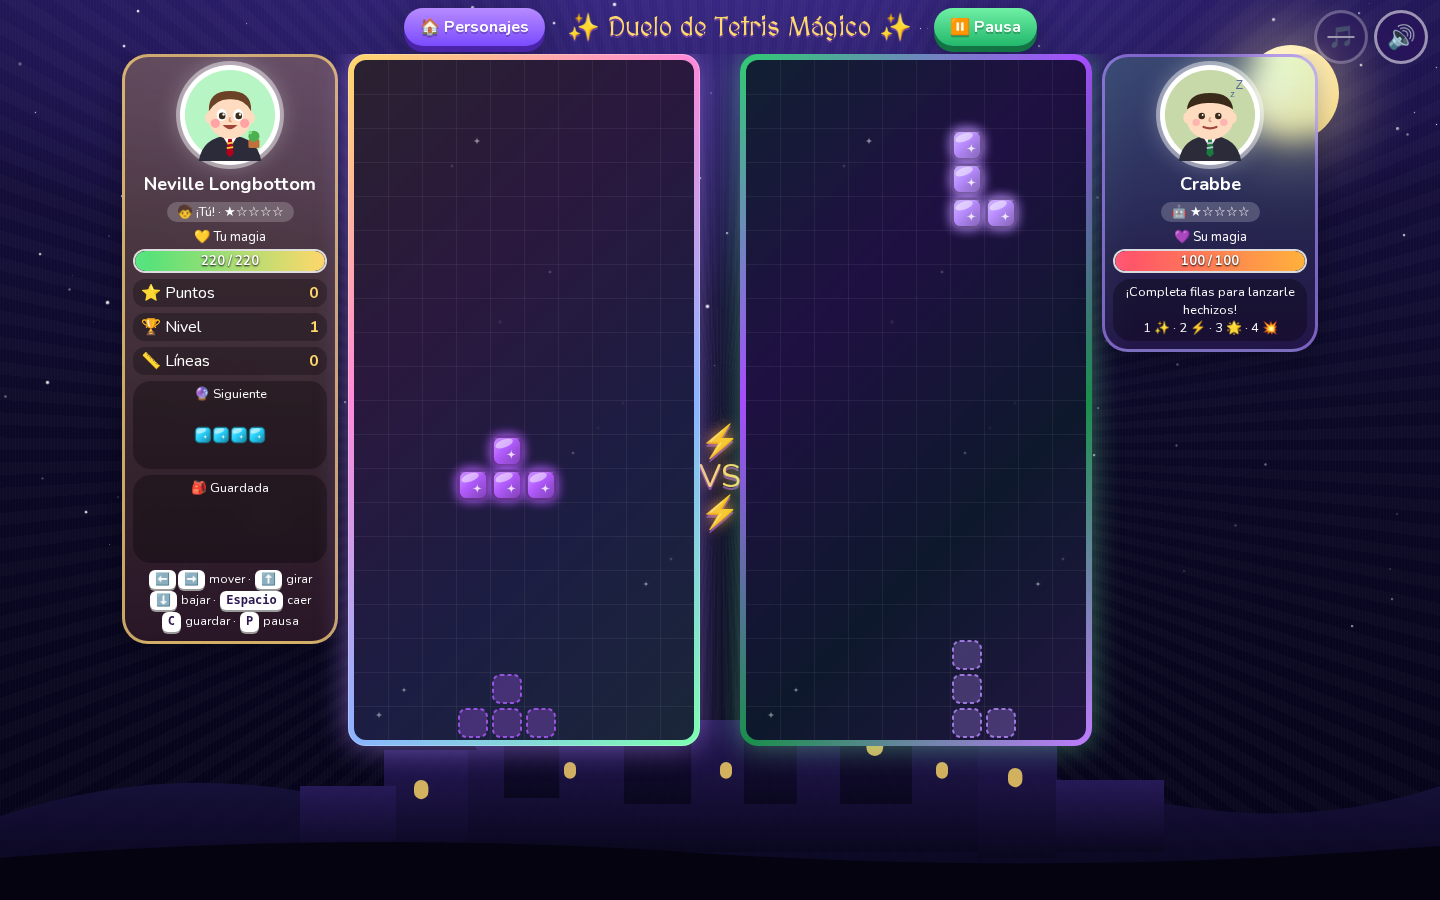
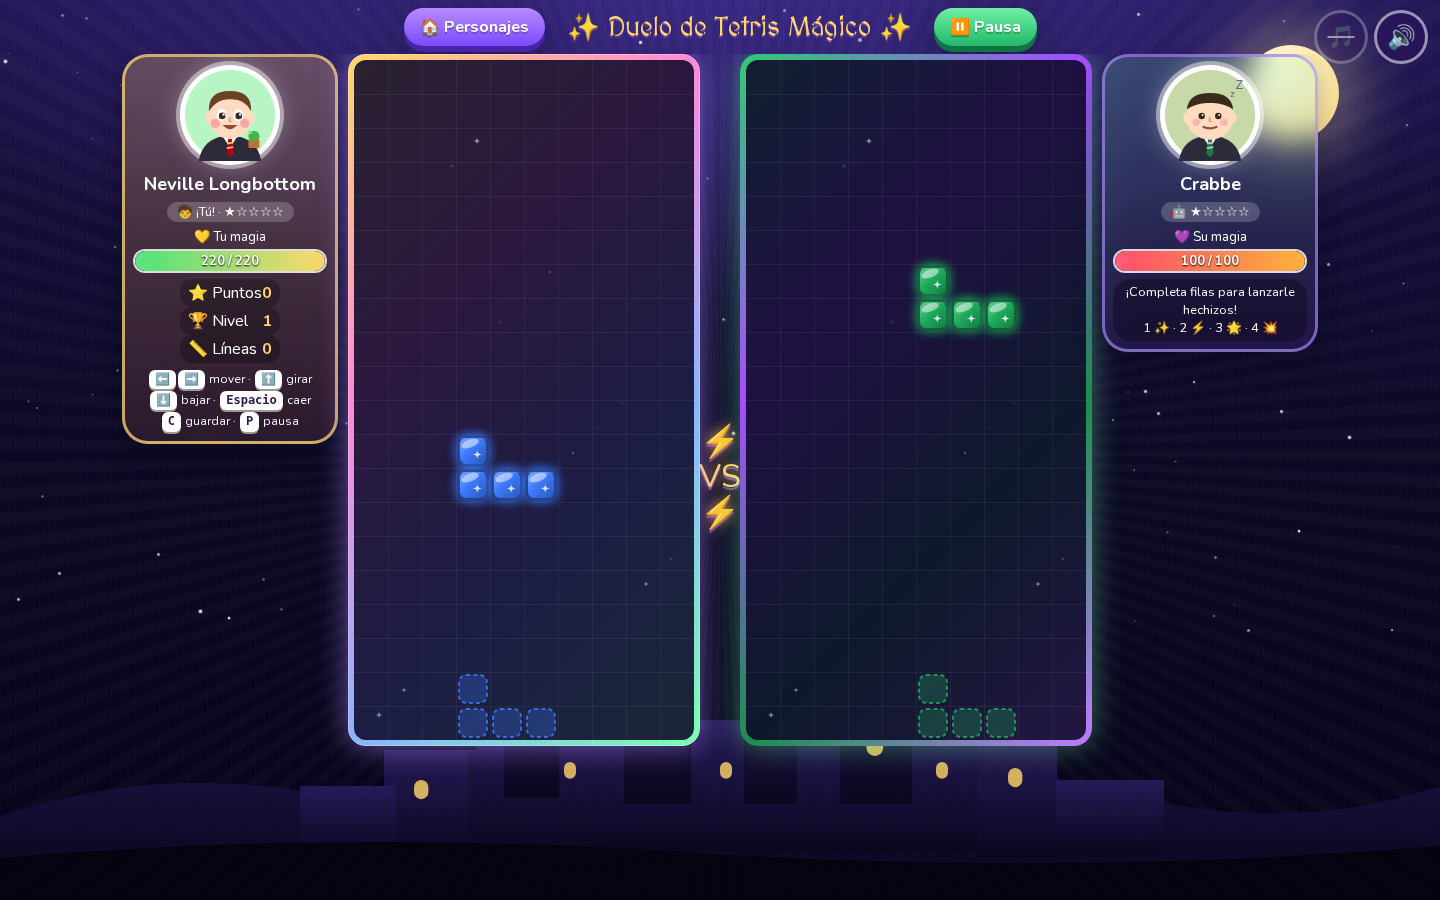
Maximize phone-p board using HUD–dock slot and compact HUD
Measure altoLibre between player HUD and dock for fitBoards, center board in
boardStage with flank minis, single-row stats and 70px rival bar, one-row
touch dock, and min cell assertions (16@390, 12@375).

diff --git a/theme.css b/theme.css
@@ -867,6 +867,7 @@ body[data-layout="phone-p"] .sideWrap.rival {
   flex: 0 0 auto;
   width: 100%;
   max-width: 100%;
+  max-height: 70px;
 }
 body[data-layout="phone-p"] .sideWrap.rival .sideRow {
   flex-direction: row;
@@ -876,8 +877,9 @@ body[data-layout="phone-p"] .sideWrap.rival .sideRow {
   width: 100%;
   max-width: 100%;
   min-width: 0;
+  max-height: 70px;
   box-sizing: border-box;
-  padding: 6px 8px;
+  padding: 4px 6px;
   border-radius: var(--radius-md);
   background: var(--glass-bg);
   border: 2px solid rgba(170, 140, 255, 0.55);
@@ -885,10 +887,10 @@ body[data-layout="phone-p"] .sideWrap.rival .sideRow {
   overflow: hidden;
 }
 body[data-layout="phone-p"] .sideWrap.rival .rival-mini {
-  flex: 0 0 88px;
-  width: 88px;
-  min-width: 88px;
-  max-height: 118px;
+  flex: 0 0 52px;
+  width: 52px;
+  min-width: 52px;
+  max-height: 58px;
   overflow: hidden;
   display: flex;
   align-items: flex-start;
@@ -922,12 +924,12 @@ body[data-layout="phone-p"] .sideWrap.rival .rival-panel .avatarBig {
   display: none;
 }
 body[data-layout="phone-p"] .sideWrap.rival .rival-panel .pname {
-  font-size: 0.72rem;
-  line-height: 1.1;
-  text-align: left;
-  white-space: nowrap;
-  overflow: hidden;
-  text-overflow: ellipsis;
+  display: none;
+}
+body[data-layout="phone-p"] .sideWrap.rival .rival-panel .hpLabel {
+  font-size: 0.6rem;
+  margin-bottom: 0;
+  line-height: 1;
 }
 body[data-layout="phone-p"] .sideWrap.rival .rival-panel .tag,
 body[data-layout="phone-p"] .sideWrap.rival .rival-panel .stat,
@@ -940,7 +942,7 @@ body[data-layout="phone-p"] .sideWrap.rival .rival-panel .hpWrap {
   min-width: 0;
 }
 body[data-layout="phone-p"] .sideWrap.rival .rival-panel .hpBar {
-  height: 16px;
+  height: 12px;
 }
 
 body[data-layout="phone-p"] .sideWrap.player {
@@ -967,16 +969,23 @@ body[data-layout="phone-p"] .sideWrap.player .sideRow {
 body[data-layout="phone-p"] .sideWrap.player .player-panel {
   display: flex !important;
   flex: 0 0 auto;
-  flex-direction: row;
-  flex-wrap: wrap;
-  align-items: center;
-  justify-content: space-between;
-  gap: 4px 6px;
+  flex-direction: column;
+  flex-wrap: nowrap;
+  align-items: stretch;
+  justify-content: flex-start;
+  gap: 3px;
   width: 100%;
   max-width: 100%;
-  padding: 5px 8px;
+  padding: 4px 8px;
   overflow: hidden;
   box-sizing: border-box;
+}
+body[data-layout="phone-p"] .sideWrap.player .player-panel .statsLine {
+  display: flex;
+  flex-direction: row;
+  width: 100%;
+  gap: 4px;
+  min-width: 0;
 }
 body[data-layout="phone-p"] .sideWrap.player .player-panel .avatarBig,
 body[data-layout="phone-p"] .sideWrap.player .player-panel .pname,
@@ -985,48 +994,77 @@ body[data-layout="phone-p"] .sideWrap.player .player-panel .ghelp {
   display: none !important;
 }
 body[data-layout="phone-p"] .sideWrap.player .player-panel .hpWrap {
-  flex: 1 1 100%;
+  flex: 0 0 auto;
   min-width: 0;
-  order: -1;
+  width: 100%;
+}
+body[data-layout="phone-p"] .sideWrap.player .player-panel .hpBar {
+  height: 14px;
+}
+body[data-layout="phone-p"] .sideWrap.player .player-panel .hpLabel {
+  font-size: 0.62rem;
+  margin-bottom: 1px;
 }
 body[data-layout="phone-p"] .sideWrap.player .player-panel .stat {
   flex: 1 1 0;
   max-width: 33.33%;
-  font-size: 0.58rem;
+  font-size: 0.56rem;
   min-width: 0;
-  padding: 2px 4px;
-  gap: 3px;
+  padding: 2px 3px;
+  gap: 2px;
 }
 body[data-layout="phone-p"] .sideWrap.player .player-panel .stat b { flex-shrink: 0; }
 body[data-layout="phone-p"] .sideWrap.player .player-panel .stat span { overflow: hidden; text-overflow: ellipsis; white-space: nowrap; }
-body[data-layout="phone-p"] .sideWrap.player .player-panel .minis {
-  flex: 1 1 100%;
-  flex-direction: row;
-  justify-content: center;
-  gap: 6px;
-  max-width: 100%;
-}
-body[data-layout="phone-p"] .sideWrap.player .player-panel .mini {
+.boardStage { display: contents; }
+.boardStage > .mini.flank { display: none; }
+body[data-layout="phone-p"] .boardStage {
+  display: flex;
   flex: 1 1 0;
-  width: auto;
-  max-width: 50%;
-  font-size: 0.6rem;
+  align-items: center;
+  justify-content: center;
+  gap: 3px;
+  width: 100%;
   min-width: 0;
+  min-height: 0;
+  max-height: 100%;
+  overflow: hidden;
   box-sizing: border-box;
 }
-body[data-layout="phone-p"] .sideWrap.player .player-panel .mini canvas { max-width: 100%; width: auto !important; height: auto; }
+body[data-layout="phone-p"] .boardStage > .mini.flank {
+  display: flex;
+  flex-direction: column;
+  align-items: center;
+  justify-content: center;
+  flex: 0 0 44px;
+  width: 44px;
+  max-width: 44px;
+  min-height: 0;
+  padding: 2px;
+  font-size: 0.5rem;
+  line-height: 1.1;
+  background: rgba(0, 0, 0, 0.28);
+  border-radius: var(--radius-sm);
+  box-sizing: border-box;
+}
+body[data-layout="phone-p"] .boardStage > .mini.flank canvas {
+  display: block;
+  width: 40px !important;
+  height: 28px !important;
+  margin-top: 2px;
+}
 body[data-layout="phone-p"] .spellText,
 body[data-layout="phone-p"] .spellText.t4 { max-width: 92vw; width: auto; white-space: normal; text-align: center; }
 body[data-layout="phone-p"] .sideWrap.player .boardCol {
-  flex: 1 1 0;
-  width: 100%;
+  flex: 1 1 auto;
+  width: auto;
   min-width: 0;
-  min-height: 80px;
+  max-width: calc(100% - 94px);
+  min-height: 0;
   max-height: 100%;
   display: flex;
   justify-content: center;
-  align-items: flex-start;
-  overflow: hidden;
+  align-items: center;
+  overflow: visible;
 }
 body[data-layout="phone-p"] .sideWrap.player .boardFrame {
   max-width: calc(100vw - 20px);
@@ -1039,23 +1077,26 @@ body[data-layout="phone-p"] .sideWrap.player .boardFrame canvas {
   height: auto;
 }
 
-body[data-layout="phone-p"] #touchDock .touch-dock {
-  gap: 8px;
+body[data-layout="phone-p"] #touchDock {
+  padding: 6px 4px calc(8px + var(--safe-b));
+}
+body.touch-ui[data-layout="phone-p"] #gameScreen #touchDock .touch-dock {
+  flex-wrap: nowrap;
+  gap: 3px;
+  max-width: 100%;
+  justify-content: center;
 }
 body[data-layout="phone-p"] #touchDock .tbtn {
-  width: clamp(50px, 13vw, 58px);
-  height: clamp(50px, 13vw, 58px);
-  font-size: 1.35rem;
+  width: 46px;
+  height: 46px;
+  flex: 0 0 46px;
+  font-size: 1.05rem;
+  border-radius: 14px;
 }
 @media (max-width: 400px) {
   body[data-layout="phone-p"] #gameScreen #backBtn { padding: 6px 8px; font-size: 0.68rem; }
   body[data-layout="phone-p"] #gameScreen #pauseBtn { padding: 6px 8px; font-size: 0.68rem; }
-}
-@media (max-height: 700px) {
-  body[data-layout="phone-p"] .sideWrap.player .player-panel .minis { display: none !important; }
-  body[data-layout="phone-p"] .sideWrap.player .player-panel { padding: 4px 6px; }
-  body[data-layout="phone-p"] #touchDock .touch-dock { gap: 6px; }
-  body[data-layout="phone-p"] #touchDock .tbtn { width: 46px; height: 46px; font-size: 1.15rem; }
+  body[data-layout="phone-p"] #touchDock .tbtn { width: 44px; height: 44px; flex-basis: 44px; font-size: 1rem; }
 }
 
 body[data-layout="phone-l"] #gameScreen #gameWrap {

diff --git a/index.html b/index.html
@@ -117,14 +117,18 @@
           <div class="pname" id="pName"></div>
           <div class="tag" id="pTag">🧒 ¡Tú!</div>
           <div class="hpWrap"><div class="hpLabel">💛 Tu magia</div><div class="hpBar"><div class="hpFill good" id="pHpFill"></div><div class="hpTxt" id="pHpTxt">100</div></div></div>
-          <div class="stat"><span>⭐ Puntos</span><b id="pScore">0</b></div>
-          <div class="stat"><span>🏆 Nivel</span><b id="pLevel">1</b></div>
-          <div class="stat"><span>📏 Líneas</span><b id="pLines">0</b></div>
-          <div class="minis"><div class="mini">🔮 Siguiente<canvas id="pNext" width="90" height="60"></canvas></div>
-          <div class="mini">🎒 Guardada<canvas id="pHold" width="90" height="60"></canvas></div></div>
+          <div class="statsLine">
+            <div class="stat"><span>⭐ Puntos</span><b id="pScore">0</b></div>
+            <div class="stat"><span>🏆 Nivel</span><b id="pLevel">1</b></div>
+            <div class="stat"><span>📏 Líneas</span><b id="pLines">0</b></div>
+          </div>
           <div class="ghelp kbd-only"><kbd>⬅</kbd><kbd>➡</kbd> mover · <kbd>⬆</kbd> girar<br><kbd>⬇</kbd> bajar · <kbd>Espacio</kbd> caer<br><kbd>C</kbd> guardar · <kbd>P</kbd> pausa</div>
         </div>
-        <div class="boardCol swipeZone" id="pSwipe"><div class="boardFrame" id="pFrame"><canvas id="pBoard"></canvas><div class="spellText" id="pSpell"></div></div></div>
+        <div class="boardStage">
+          <div class="mini flank"><span>Sig.</span><canvas id="pNext" width="72" height="48"></canvas></div>
+          <div class="boardCol swipeZone" id="pSwipe"><div class="boardFrame" id="pFrame"><canvas id="pBoard"></canvas><div class="spellText" id="pSpell"></div></div></div>
+          <div class="mini flank"><span>Guar.</span><canvas id="pHold" width="72" height="48"></canvas></div>
+        </div>
       </div>
     </div>
     <div class="vsCol">⚡<br>VS<br>⚡</div>
@@ -602,11 +606,18 @@ function fitBoards(){const mode=document.body.dataset.layout||layoutMode();const
  if(mode==='phone-p'){
   const short=vh<720;
   const inGame=document.getElementById('gameScreen')?.classList.contains('show');
-  const arena=document.getElementById('gameWrap');
-  const arenaH=arena?.getBoundingClientRect().height||(vh-tb-tc);
-  const rivalH=inGame?(document.querySelector('.sideWrap.rival')?.offsetHeight||0):(short?94:112);
-  const hudH=inGame?(document.querySelector('.sideWrap.player .player-panel')?.offsetHeight||0):(short?90:102);
-  avH=arenaH-rivalH-hudH-FRAME_PAD-4;avW=vw-20;cellMin=short?6:9;cellMax=short?30:36;
+  cellMin=short?12:14;cellMax=38;
+  if(inGame&&Game.P?.cv){
+   const hudEl=document.querySelector('.sideWrap.player .player-panel');
+   const stage=document.querySelector('.boardStage');
+   const hudBottom=hudEl?.getBoundingClientRect().bottom??tb+80;
+   const dockTop2=dockOn?dock.getBoundingClientRect().top:vh;
+   const altoLibre=Math.max(0,dockTop2-hudBottom-FRAME_PAD);
+   const stageW=stage?.getBoundingClientRect().width||(vw-24);
+   const flank=94;
+   const anchoLibre=Math.max(0,Math.min(stageW,vw-16)-flank);
+   avH=altoLibre;avW=anchoLibre;
+  }else{avH=vh-tb-tc-(short?150:165);avW=vw-24;}
  }else if(mode==='phone-l'){avH=vh-tb-12;avW=(vw-150)/2;cellMin=10;cellMax=26;}
  else if(mode==='tablet'){const pw=200;avH=vh-tb-tc-20;avW=(vw-2*pw-90)/2;cellMin=12;cellMax=30;}
  else{const pw=document.querySelector('#gameScreen .panel')?.offsetWidth||200;avH=vh-tb-24;avW=(vw-2*pw-100)/2;cellMin=14;cellMax=34;}
@@ -614,17 +625,14 @@ function fitBoards(){const mode=document.body.dataset.layout||layoutMode();const
  else avH=Math.max(0,avH);
  let pCell=Math.max(cellMin,Math.min(cellMax,Math.floor(Math.min(avH/ROWS,avW/COLS))));
  if(mode==='phone-p'&&Game.P?.cv){
-  const vCell=Math.max(7,Math.min(10,Math.floor(84/COLS)));
-  const dockLimit=()=>(dockOn?dock.getBoundingClientRect().top:arena?.getBoundingClientRect().bottom??vh)-10;
-  const overflows=()=>{const cv=Game.P.cv,fr=cv.closest('.boardFrame');
-   const bottom=Math.max(cv.getBoundingClientRect().bottom,fr?fr.getBoundingClientRect().bottom:0);
-   return bottom>dockLimit();};
-  for(;pCell>=cellMin;pCell--){
-   Game.P.cv.width=pCell*COLS;Game.P.cv.height=pCell*ROWS;
-   if(Game.V?.cv){Game.V.cv.width=vCell*COLS;Game.V.cv.height=vCell*ROWS;}
-   if(!overflows())break;
-  }
-  CELL=Math.max(cellMin,pCell);
+  const vCell=Math.max(5,Math.min(8,Math.floor(52/COLS)));
+  const dockTop2=dockOn?dock.getBoundingClientRect().top:vh;
+  const fits=()=>{const fr=Game.P.cv.closest('.boardFrame');
+   return Math.max(Game.P.cv.getBoundingClientRect().bottom,fr?.getBoundingClientRect().bottom||0)<=dockTop2-3;};
+  Game.P.cv.width=pCell*COLS;Game.P.cv.height=pCell*ROWS;
+  while(pCell>cellMin&&!fits()){pCell--;Game.P.cv.width=pCell*COLS;Game.P.cv.height=pCell*ROWS;}
+  if(Game.V?.cv){Game.V.cv.width=vCell*COLS;Game.V.cv.height=vCell*ROWS;}
+  CELL=pCell;
  }else{
   CELL=pCell;
   if(mode==='phone-p'){const vCell=Math.max(7,Math.min(10,Math.floor(84/COLS)));
